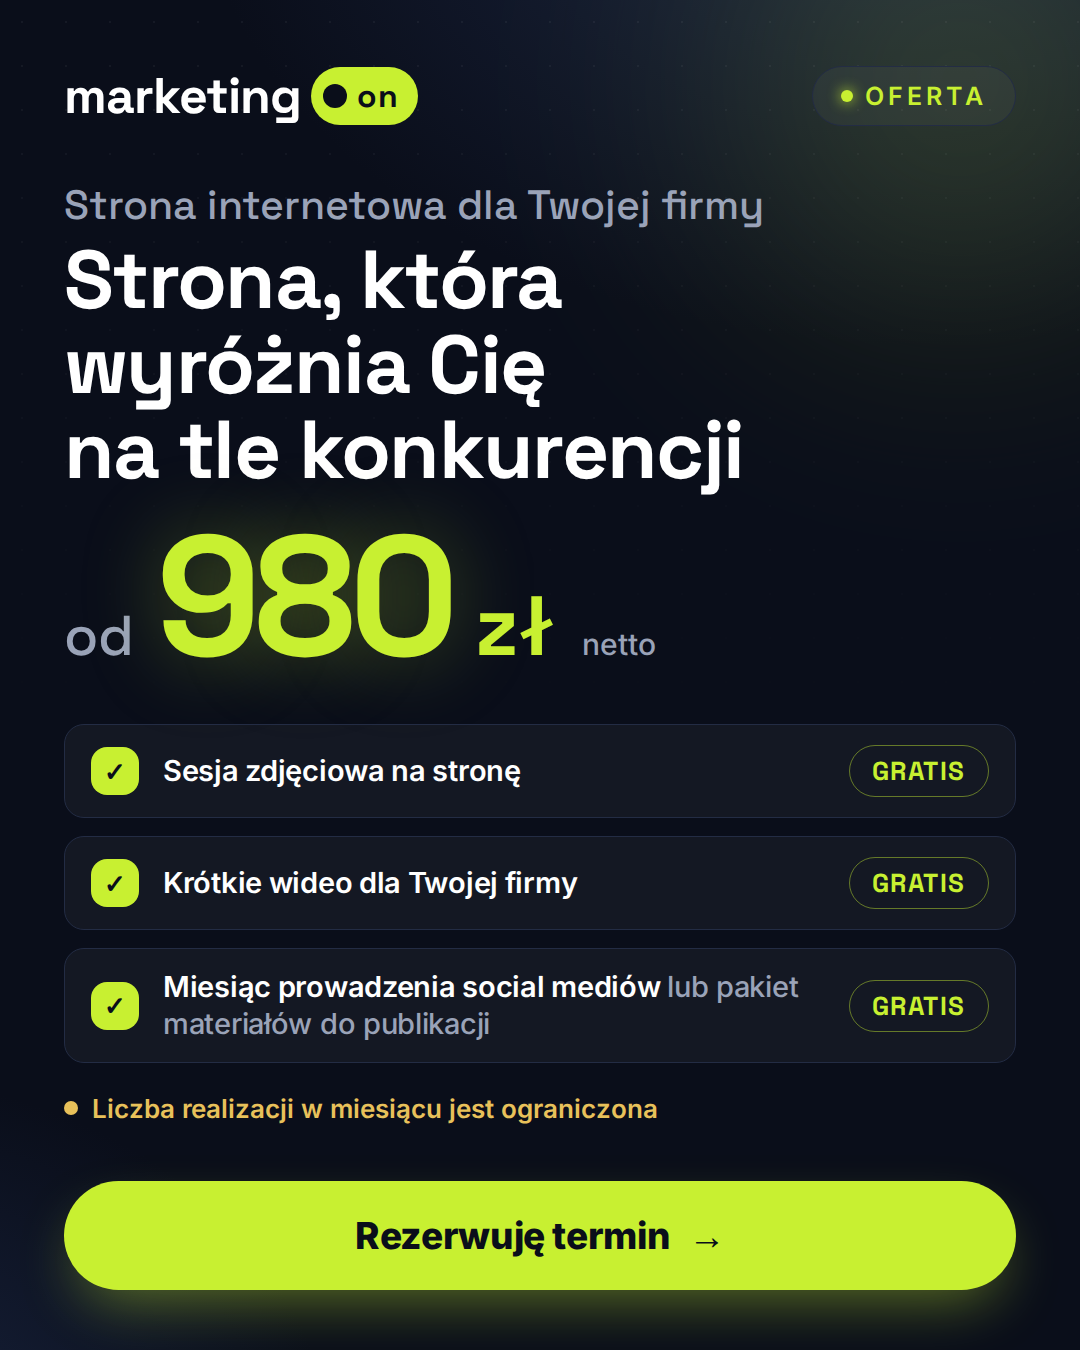
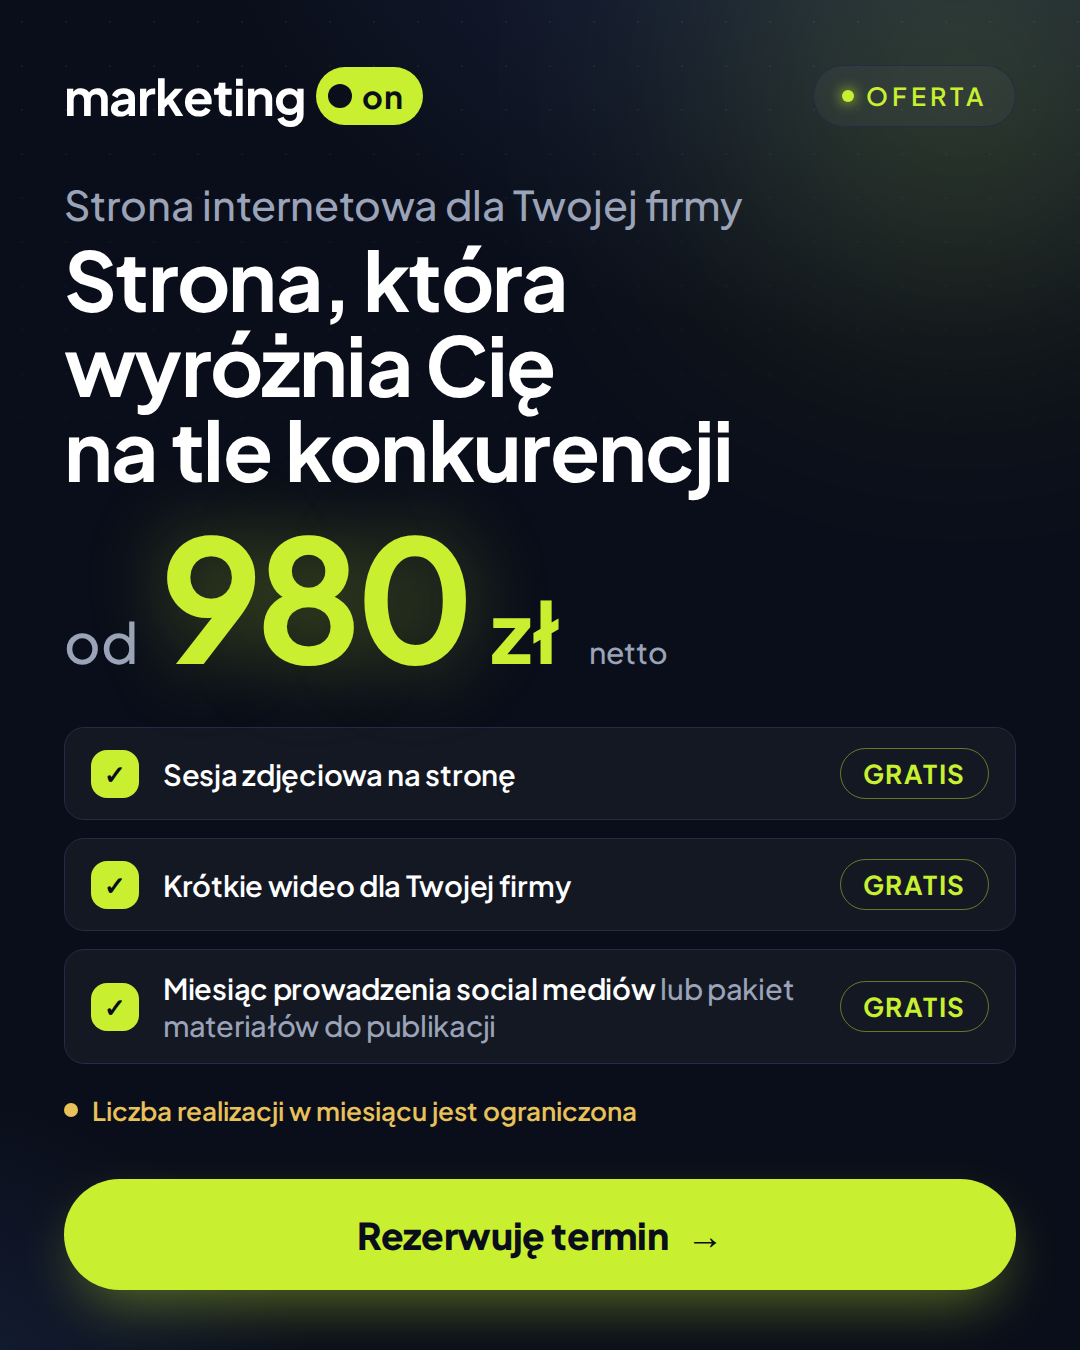
Zastosuj Plus Jakarta Sans w calej kampanii
Font wybrany przez klienta (nr 2 z planszy wyboru). Podmiana Space Grotesk
i Inter na Plus Jakarta Sans w v1, v2, v4 + waga 400 w fonts2.css.

Claude-Session: https://claude.ai/code/session_018cPE5fQDHkGpK74B5CtJMV

diff --git a/ads/v2-oferta-cenowa.html b/ads/v2-oferta-cenowa.html
@@ -1,13 +1,13 @@
 <!-- marketing.on — wariant 2: oferta cenowa (ciemny, styl Pixel Network) -->
 <meta charset="utf-8">
-<link rel="stylesheet" href="fonts/fonts.css">
+<link rel="stylesheet" href="fonts/fonts.css"><link rel="stylesheet" href="fonts/fonts2.css">
 <style>
   :root{
     --ink:#0A0E1A; --ink2:#111729; --paper:#F6F4EF; --lime:#C8F031; --lime-deep:#9CC410;
     --muted:#9AA3B8; --line:#232C44;
   }
   *{margin:0;padding:0;box-sizing:border-box}
-  body{font-family:'Inter',sans-serif;color:#fff;-webkit-font-smoothing:antialiased}
+  body{font-family:'Plus Jakarta Sans',sans-serif;color:#fff;-webkit-font-smoothing:antialiased}
   .canvas{position:relative;width:1080px;overflow:hidden;display:flex;flex-direction:column;
     background:radial-gradient(1200px 800px at 85% -10%,#1C2743 0%,transparent 60%),
                radial-gradient(900px 700px at -15% 108%,#18233E 0%,transparent 55%),var(--ink)}
@@ -20,10 +20,10 @@
     -webkit-mask-image:linear-gradient(180deg,#000 0%,transparent 55%)}
 
   .top{display:flex;align-items:center;justify-content:space-between;position:relative}
-  .wordmark{font-family:'Space Grotesk';font-weight:700;font-size:50px;letter-spacing:-.02em;color:#fff;display:flex;align-items:center}
+  .wordmark{font-family:'Plus Jakarta Sans';font-weight:700;font-size:50px;letter-spacing:-.02em;color:#fff;display:flex;align-items:center}
   .on-badge{display:inline-flex;align-items:center;gap:10px;background:var(--lime);border-radius:999px;padding:9px 20px 9px 12px;margin-left:10px}
   .on-badge i{width:24px;height:24px;border-radius:50%;background:var(--ink)}
-  .on-badge b{font-family:'Space Grotesk';font-weight:700;font-size:32px;color:var(--ink);letter-spacing:.02em}
+  .on-badge b{font-family:'Plus Jakarta Sans';font-weight:700;font-size:32px;color:var(--ink);letter-spacing:.02em}
   .eyebrow{display:inline-flex;align-items:center;gap:12px;border:1.5px solid var(--line);background:rgba(255,255,255,.04);
     border-radius:999px;padding:14px 28px;font-size:25px;font-weight:600;letter-spacing:.16em;color:var(--lime)}
   .eyebrow i{width:12px;height:12px;border-radius:50%;background:var(--lime);box-shadow:0 0 14px var(--lime)}
@@ -31,18 +31,18 @@
   .offer{position:relative}
   body.story .offer{margin-top:96px}
   body.feed  .offer{margin-top:56px}
-  .offer h1{font-family:'Space Grotesk';font-weight:700;letter-spacing:-.02em;line-height:1.04}
+  .offer h1{font-family:'Plus Jakarta Sans';font-weight:700;letter-spacing:-.02em;line-height:1.04}
   body.story .offer h1{font-size:98px}
   body.feed  .offer h1{font-size:82px}
   .offer h1 small{display:block;font-size:.5em;font-weight:500;color:var(--muted);letter-spacing:0;margin-bottom:10px}
   .price{display:flex;align-items:baseline;gap:22px;position:relative}
   body.story .price{margin:34px 0 10px}
   body.feed  .price{margin:24px 0 6px}
-  .price .od{font-family:'Space Grotesk';font-weight:500;font-size:56px;color:var(--muted)}
-  .price .val{font-family:'Space Grotesk';font-weight:700;font-size:210px;line-height:.95;letter-spacing:-.04em;color:var(--lime);
+  .price .od{font-family:'Plus Jakarta Sans';font-weight:500;font-size:56px;color:var(--muted)}
+  .price .val{font-family:'Plus Jakarta Sans';font-weight:700;font-size:210px;line-height:.95;letter-spacing:-.04em;color:var(--lime);
     text-shadow:0 0 80px rgba(200,240,49,.35)}
   body.feed .price .val{font-size:170px}
-  .price .cur{font-family:'Space Grotesk';font-weight:700;font-size:84px;color:var(--lime)}
+  .price .cur{font-family:'Plus Jakarta Sans';font-weight:700;font-size:84px;color:var(--lime)}
   .price .net{font-size:30px;color:var(--muted);font-weight:500;margin-left:6px}
 
   .list{position:relative;display:flex;flex-direction:column}
@@ -57,7 +57,7 @@
   .item p{font-size:33px;font-weight:600;letter-spacing:-.01em;line-height:1.25}
   body.feed .item p{font-size:29px}
   .item p span{color:var(--muted);font-weight:500}
-  .item .free{margin-left:auto;flex:none;font-family:'Space Grotesk';font-weight:700;font-size:26px;color:var(--lime);
+  .item .free{margin-left:auto;flex:none;font-family:'Plus Jakarta Sans';font-weight:700;font-size:26px;color:var(--lime);
     border:1.5px solid rgba(200,240,49,.45);border-radius:999px;padding:8px 22px;letter-spacing:.06em}
 
   .note{position:relative;display:flex;align-items:center;gap:14px;color:#E8C15A;font-size:26px;font-weight:600}
@@ -69,7 +69,7 @@
   body.story .steps{margin-top:56px}
   body.feed  .steps{display:none}
   .step{flex:1;border:1.5px solid var(--line);border-radius:24px;padding:28px 26px;background:rgba(255,255,255,.03)}
-  .step b{display:flex;align-items:center;gap:12px;font-family:'Space Grotesk';font-weight:700;font-size:27px;letter-spacing:-.01em}
+  .step b{display:flex;align-items:center;gap:12px;font-family:'Plus Jakarta Sans';font-weight:700;font-size:27px;letter-spacing:-.01em}
   .step b i{font-style:normal;color:var(--lime);font-size:24px}
   .step p{margin-top:10px;font-size:22px;line-height:1.4;color:var(--muted);font-weight:500}
 

diff --git a/ads/v1-jasny-premium.html b/ads/v1-jasny-premium.html
@@ -1,13 +1,13 @@
 <!-- marketing.on — wariant 1: jasny premium (styl invette) -->
 <meta charset="utf-8">
-<link rel="stylesheet" href="fonts/fonts.css">
+<link rel="stylesheet" href="fonts/fonts.css"><link rel="stylesheet" href="fonts/fonts2.css">
 <style>
   :root{
     --ink:#0A0E1A; --paper:#F6F4EF; --lime:#C8F031; --lime-deep:#9CC410;
     --muted:#5B6272; --line:#E3DFD4; --card:#FFFFFF;
   }
   *{margin:0;padding:0;box-sizing:border-box}
-  body{font-family:'Inter',sans-serif;color:var(--ink);-webkit-font-smoothing:antialiased}
+  body{font-family:'Plus Jakarta Sans',sans-serif;color:var(--ink);-webkit-font-smoothing:antialiased}
   .canvas{position:relative;width:1080px;overflow:hidden;background:var(--paper);display:flex;flex-direction:column}
   body.story .canvas{height:1920px;padding:88px 72px 76px}
   body.feed  .canvas{height:1350px;padding:64px 64px 56px}
@@ -19,13 +19,13 @@
     background:radial-gradient(circle,#E9F7B8 0%,transparent 65%);top:-260px;right:-320px}
 
   .brand{display:flex;align-items:center;gap:14px;position:relative}
-  .wordmark{font-family:'Space Grotesk';font-weight:700;font-size:52px;letter-spacing:-.02em}
+  .wordmark{font-family:'Plus Jakarta Sans';font-weight:700;font-size:52px;letter-spacing:-.02em}
   .wordmark .dot{color:var(--lime-deep)}
   .on-badge{display:inline-flex;align-items:center;gap:10px;background:var(--ink);border-radius:999px;padding:10px 22px 10px 12px;margin-left:6px;vertical-align:6px}
   .on-badge i{width:26px;height:26px;border-radius:50%;background:var(--lime);box-shadow:0 0 18px rgba(200,240,49,.9)}
-  .on-badge b{font-family:'Space Grotesk';font-weight:700;font-size:34px;color:#fff;letter-spacing:.02em}
+  .on-badge b{font-family:'Plus Jakarta Sans';font-weight:700;font-size:34px;color:#fff;letter-spacing:.02em}
 
-  .headline{position:relative;font-family:'Space Grotesk';font-weight:700;letter-spacing:-.03em}
+  .headline{position:relative;font-family:'Plus Jakarta Sans';font-weight:700;letter-spacing:-.03em}
   body.story .headline{font-size:116px;line-height:1.02;margin-top:84px}
   body.feed  .headline{font-size:92px;line-height:1.0;margin-top:52px}
   .headline .hl{color:#B4AD9C}
@@ -46,12 +46,12 @@
   .bar .url{margin-left:14px;flex:1;background:#F1EFE7;border-radius:999px;padding:10px 22px;font-size:20px;color:#9A937F;font-weight:500}
   .site{padding:38px 40px 34px}
   .site nav{display:flex;align-items:center;justify-content:space-between;margin-bottom:34px}
-  .site nav .lg{font-family:'Space Grotesk';font-weight:700;font-size:24px}
+  .site nav .lg{font-family:'Plus Jakarta Sans';font-weight:700;font-size:24px}
   .site nav .lnk{display:flex;gap:22px}
   .site nav .lnk i{width:64px;height:10px;border-radius:5px;background:#E8E5DA}
   .site nav .btn{background:var(--ink);color:#fff;font-size:16px;font-weight:600;padding:12px 22px;border-radius:999px}
   .hero{display:grid;grid-template-columns:1.15fr .85fr;gap:30px;align-items:center}
-  .hero h1{font-family:'Space Grotesk';font-weight:700;font-size:42px;line-height:1.05;letter-spacing:-.02em}
+  .hero h1{font-family:'Plus Jakarta Sans';font-weight:700;font-size:42px;line-height:1.05;letter-spacing:-.02em}
   .hero h1 span{color:var(--lime-deep)}
   .hero .l{display:flex;flex-direction:column;gap:18px}
   .hero .p i{display:block;height:11px;border-radius:6px;background:#EDEAE0;margin-bottom:9px}
@@ -64,7 +64,7 @@
       linear-gradient(150deg,#101728 0%,#1E2B48 48%,#3E5178 100%)}
   .strip{display:flex;gap:16px;margin-top:30px}
   .strip div{flex:1;background:#FBFAF5;border:1.5px solid #EFECE1;border-radius:16px;padding:16px 18px}
-  .strip div b{display:block;font-family:'Space Grotesk';font-size:22px;margin-bottom:6px}
+  .strip div b{display:block;font-family:'Plus Jakarta Sans';font-size:22px;margin-bottom:6px}
   .strip div i{display:block;height:9px;border-radius:5px;background:#ECE9DE;width:80%}
 
   .float{position:absolute;background:#fff;border-radius:20px;border:1.5px solid var(--line);

diff --git a/ads/v4-rozmowa-z-nami.html b/ads/v4-rozmowa-z-nami.html
@@ -1,13 +1,13 @@
 <!-- marketing.on — wariant 4: rozmowa z nami (czat, pozytywne lustro v3) -->
 <meta charset="utf-8">
-<link rel="stylesheet" href="fonts/fonts.css">
+<link rel="stylesheet" href="fonts/fonts.css"><link rel="stylesheet" href="fonts/fonts2.css">
 <style>
   :root{
     --ink:#0A0E1A; --paper:#F6F4EF; --lime:#C8F031; --lime-deep:#8FB60E;
     --muted:#5B6272; --line:#E3DFD4;
   }
   *{margin:0;padding:0;box-sizing:border-box}
-  body{font-family:'Inter',sans-serif;color:var(--ink);-webkit-font-smoothing:antialiased}
+  body{font-family:'Plus Jakarta Sans',sans-serif;color:var(--ink);-webkit-font-smoothing:antialiased}
   .canvas{position:relative;width:1080px;overflow:hidden;background:var(--paper);display:flex;flex-direction:column}
   body.story .canvas{height:1920px;padding:84px 76px 80px}
   body.feed  .canvas{height:1350px;padding:60px 64px 56px}
@@ -15,12 +15,12 @@
   .slash2{position:absolute;inset:0;pointer-events:none;background:linear-gradient(245deg,transparent 25%,rgba(10,14,26,.14) 25.2%,transparent 26.6%)}
 
   .brand{display:flex;align-items:center;position:relative}
-  .wordmark{font-family:'Space Grotesk';font-weight:700;font-size:50px;letter-spacing:-.02em;display:flex;align-items:center}
+  .wordmark{font-family:'Plus Jakarta Sans';font-weight:700;font-size:50px;letter-spacing:-.02em;display:flex;align-items:center}
   .on-badge{display:inline-flex;align-items:center;gap:9px;background:var(--ink);border-radius:999px;padding:9px 20px 9px 11px;margin-left:9px}
   .on-badge i{width:24px;height:24px;border-radius:50%;background:var(--lime);box-shadow:0 0 16px rgba(200,240,49,.9)}
-  .on-badge b{font-family:'Space Grotesk';font-weight:700;font-size:31px;color:#fff;letter-spacing:.02em}
+  .on-badge b{font-family:'Plus Jakarta Sans';font-weight:700;font-size:31px;color:#fff;letter-spacing:.02em}
 
-  .headline{position:relative;font-family:'Space Grotesk';font-weight:700;letter-spacing:-.03em}
+  .headline{position:relative;font-family:'Plus Jakarta Sans';font-weight:700;letter-spacing:-.03em}
   body.story .headline{font-size:100px;line-height:1.03;margin-top:56px}
   body.feed  .headline{font-size:84px;line-height:1.0;margin-top:42px}
   .headline .q{background:var(--lime);border-radius:14px;padding:0 20px 8px;margin-left:-6px;
@@ -36,7 +36,7 @@
     overflow:hidden;transform:rotate(-1.4deg)}
   body.feed .phone{width:700px}
   .ph-top{display:flex;align-items:center;gap:16px;padding:20px 28px;background:#FBFAF6;border-bottom:1.5px solid #EFECE3}
-  .ph-top .ava{width:52px;height:52px;border-radius:50%;background:var(--lime);display:flex;align-items:center;justify-content:center;color:var(--ink);font-weight:700;font-size:21px;font-family:'Space Grotesk'}
+  .ph-top .ava{width:52px;height:52px;border-radius:50%;background:var(--lime);display:flex;align-items:center;justify-content:center;color:var(--ink);font-weight:700;font-size:21px;font-family:'Plus Jakarta Sans'}
   .ph-top b{display:block;font-size:25px;font-weight:700}
   .ph-top span{display:block;font-size:19px;color:#9A937F;font-weight:500;margin-top:2px}
   .msgs{display:flex;flex-direction:column;gap:15px;padding:28px 30px 32px;background:
@@ -51,7 +51,7 @@
     box-shadow:0 30px 70px -22px rgba(10,14,26,.5)}
   body.story .answer{margin-top:56px}
   body.feed  .answer{padding:32px 40px;margin-top:32px}
-  .answer h2{font-family:'Space Grotesk';font-weight:700;font-size:41px;letter-spacing:-.02em;line-height:1.15}
+  .answer h2{font-family:'Plus Jakarta Sans';font-weight:700;font-size:41px;letter-spacing:-.02em;line-height:1.15}
   .answer h2 em{font-style:normal;color:var(--lime)}
   .arow{display:flex;flex-wrap:wrap;gap:12px;margin-top:26px}
   .achip{display:flex;align-items:center;gap:10px;border:1.5px solid #2A3350;background:rgba(255,255,255,.05);

diff --git a/ads/fonts/fonts2.css b/ads/fonts/fonts2.css
@@ -22,3 +22,5 @@
 @font-face { font-family: 'Plus Jakarta Sans'; font-style: normal; font-weight: 700; font-display: block; src: url(PlusJakartaSans-700-latin.woff2) format('woff2'); unicode-range: U+0000-00FF, U+0131, U+0152-0153, U+02BB-02BC, U+02C6, U+02DA, U+02DC, U+0304, U+0308, U+0329, U+2000-206F, U+20AC, U+2122, U+2191, U+2193, U+2212, U+2215, U+FEFF, U+FFFD; }
 @font-face { font-family: 'Plus Jakarta Sans'; font-style: normal; font-weight: 800; font-display: block; src: url(PlusJakartaSans-800-latin-ext.woff2) format('woff2'); unicode-range: U+0100-02BA, U+02BD-02C5, U+02C7-02CC, U+02CE-02D7, U+02DD-02FF, U+0304, U+0308, U+0329, U+1D00-1DBF, U+1E00-1E9F, U+1EF2-1EFF, U+2020, U+20A0-20AB, U+20AD-20C0, U+2113, U+2C60-2C7F, U+A720-A7FF; }
 @font-face { font-family: 'Plus Jakarta Sans'; font-style: normal; font-weight: 800; font-display: block; src: url(PlusJakartaSans-800-latin.woff2) format('woff2'); unicode-range: U+0000-00FF, U+0131, U+0152-0153, U+02BB-02BC, U+02C6, U+02DA, U+02DC, U+0304, U+0308, U+0329, U+2000-206F, U+20AC, U+2122, U+2191, U+2193, U+2212, U+2215, U+FEFF, U+FFFD; }
+@font-face { font-family: 'Plus Jakarta Sans'; font-style: normal; font-weight: 400; font-display: block; src: url(PlusJakartaSans-400-latin-ext.woff2) format('woff2'); unicode-range: U+0100-02BA, U+02BD-02C5, U+02C7-02CC, U+02CE-02D7, U+02DD-02FF, U+0304, U+0308, U+0329, U+1D00-1DBF, U+1E00-1E9F, U+1EF2-1EFF, U+2020, U+20A0-20AB, U+20AD-20C0, U+2113, U+2C60-2C7F, U+A720-A7FF; }
+@font-face { font-family: 'Plus Jakarta Sans'; font-style: normal; font-weight: 400; font-display: block; src: url(PlusJakartaSans-400-latin.woff2) format('woff2'); unicode-range: U+0000-00FF, U+0131, U+0152-0153, U+02BB-02BC, U+02C6, U+02DA, U+02DC, U+0304, U+0308, U+0329, U+2000-206F, U+20AC, U+2122, U+2191, U+2193, U+2212, U+2215, U+FEFF, U+FFFD; }

diff --git a/ads/fonts/gf4.css b/ads/fonts/gf4.css
@@ -1,0 +1,36 @@
+/* cyrillic-ext */
+@font-face {
+  font-family: 'Plus Jakarta Sans';
+  font-style: normal;
+  font-weight: 400;
+  font-display: swap;
+  src: url(https://fonts.gstatic.com/s/plusjakartasans/v12/LDIbaomQNQcsA88c7O9yZ4KMCoOg4IA6-91aHEjcWuA_qU79QB_VIKg.woff2) format('woff2');
+  unicode-range: U+0460-052F, U+1C80-1C8A, U+20B4, U+2DE0-2DFF, U+A640-A69F, U+FE2E-FE2F;
+}
+/* vietnamese */
+@font-face {
+  font-family: 'Plus Jakarta Sans';
+  font-style: normal;
+  font-weight: 400;
+  font-display: swap;
+  src: url(https://fonts.gstatic.com/s/plusjakartasans/v12/LDIbaomQNQcsA88c7O9yZ4KMCoOg4IA6-91aHEjcWuA_qU79Qh_VIKg.woff2) format('woff2');
+  unicode-range: U+0102-0103, U+0110-0111, U+0128-0129, U+0168-0169, U+01A0-01A1, U+01AF-01B0, U+0300-0301, U+0303-0304, U+0308-0309, U+0323, U+0329, U+1EA0-1EF9, U+20AB;
+}
+/* latin-ext */
+@font-face {
+  font-family: 'Plus Jakarta Sans';
+  font-style: normal;
+  font-weight: 400;
+  font-display: swap;
+  src: url(https://fonts.gstatic.com/s/plusjakartasans/v12/LDIbaomQNQcsA88c7O9yZ4KMCoOg4IA6-91aHEjcWuA_qU79Qx_VIKg.woff2) format('woff2');
+  unicode-range: U+0100-02BA, U+02BD-02C5, U+02C7-02CC, U+02CE-02D7, U+02DD-02FF, U+0304, U+0308, U+0329, U+1D00-1DBF, U+1E00-1E9F, U+1EF2-1EFF, U+2020, U+20A0-20AB, U+20AD-20C0, U+2113, U+2C60-2C7F, U+A720-A7FF;
+}
+/* latin */
+@font-face {
+  font-family: 'Plus Jakarta Sans';
+  font-style: normal;
+  font-weight: 400;
+  font-display: swap;
+  src: url(https://fonts.gstatic.com/s/plusjakartasans/v12/LDIbaomQNQcsA88c7O9yZ4KMCoOg4IA6-91aHEjcWuA_qU79TR_V.woff2) format('woff2');
+  unicode-range: U+0000-00FF, U+0131, U+0152-0153, U+02BB-02BC, U+02C6, U+02DA, U+02DC, U+0304, U+0308, U+0329, U+2000-206F, U+20AC, U+2122, U+2191, U+2193, U+2212, U+2215, U+FEFF, U+FFFD;
+}

diff --git a/ads/README.md b/ads/README.md
@@ -19,7 +19,7 @@ z sesją i nagrywkami, potem robimy stronę. Przekaz wyłącznie pozytywny
 
 - Logotyp tekstowy: `marketing` + plakietka-przełącznik `on` (motyw „włączamy Twój marketing")
 - Kolory: granat `#0A0E1A`, krem `#F6F4EF`, limonka `#C8F031`
-- Typografia: Space Grotesk (nagłówki) + Inter (tekst), subset latin + latin-ext
+- Typografia: Plus Jakarta Sans (całość), subset latin + latin-ext
 
 ## Render podglądów
 
